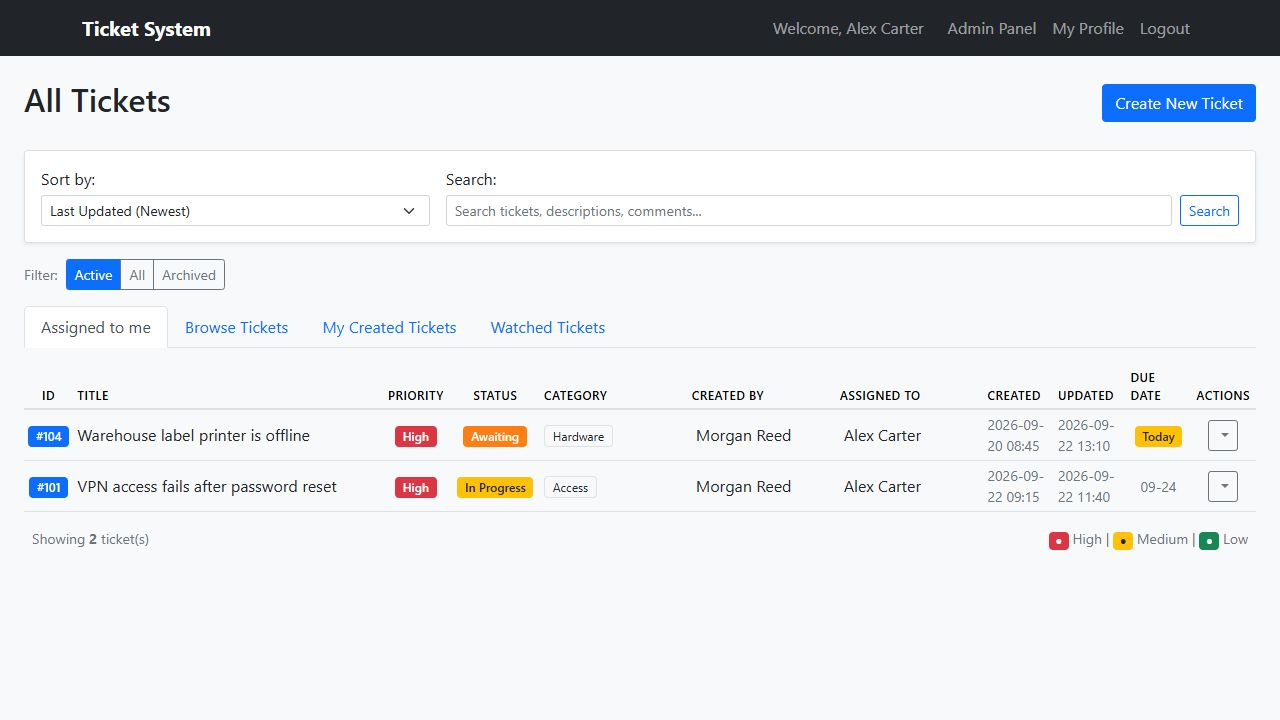
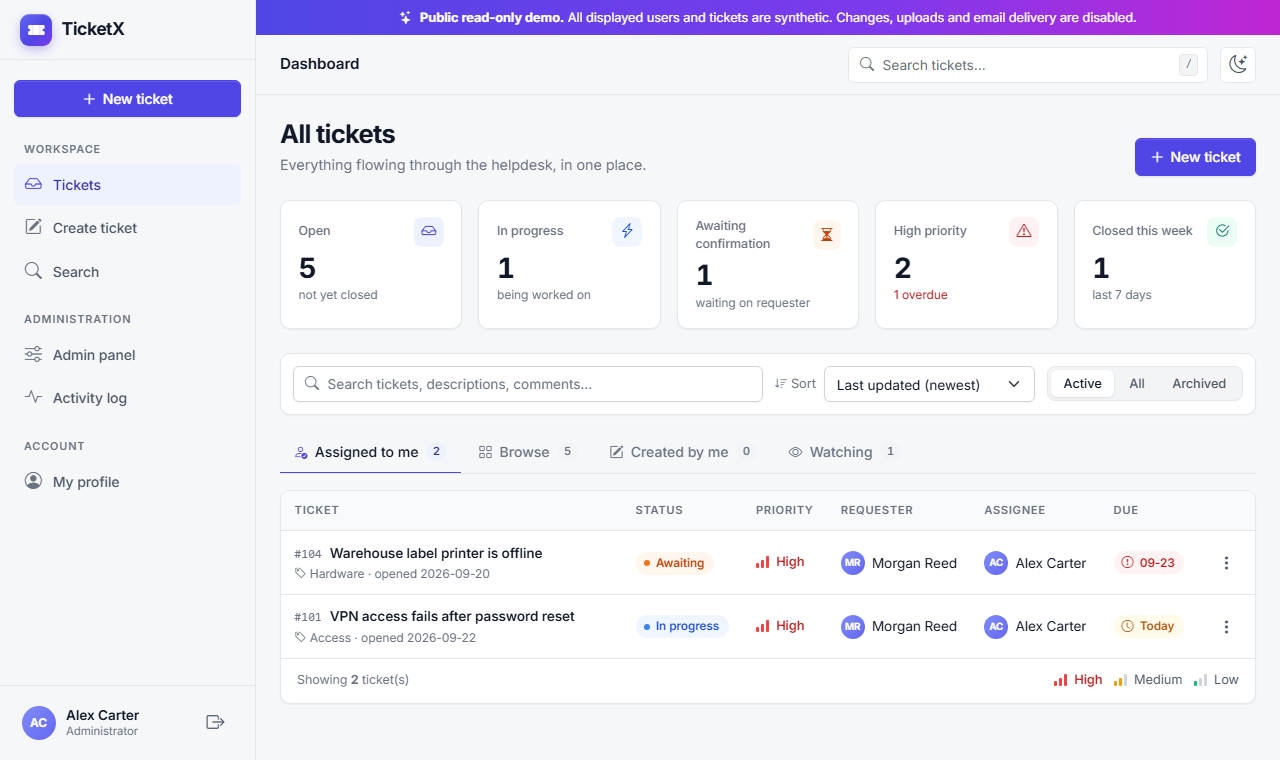
fix: keep ticket table inside its card; refresh README screenshots
- Ticket action menus use Popper's fixed strategy, so the table can
  scroll horizontally instead of overflowing the card
- Hide Requester below xl and Updated below xxl; titles truncate
- Anchor .visually-hidden table labels so they no longer widen the page
  on phones
- New light and dark screenshots of the redesigned UI

diff --git a/templates/partials/ticket_table.html b/templates/partials/ticket_table.html
@@ -1,15 +1,15 @@
 {% if tickets %}
 <div class="table-card">
 <div class="table-responsive">
-    <table class="table table-hover align-middle">
-        <thead class="sticky-top">
+    <table class="table table-hover align-middle ticket-table">
+        <thead>
             <tr>
-                <th style="width: 34%;">Ticket</th>
+                <th>Ticket</th>
                 <th style="width: 120px;">Status</th>
                 <th style="width: 100px;">Priority</th>
-                <th>Requester</th>
+                <th class="d-none d-xl-table-cell">Requester</th>
                 <th>Assignee</th>
-                <th style="width: 110px;">Updated</th>
+                <th class="d-none d-xxl-table-cell" style="width: 130px;">Updated</th>
                 <th style="width: 90px;">Due</th>
                 <th style="width: 56px;" class="text-end"><span class="visually-hidden">Actions</span></th>
             </tr>
@@ -26,11 +26,11 @@
             {% set st = status_map.get(ticket[3], ('pill-gray', (ticket[3] or '')|replace('_', ' ')|title)) %}
             <tr data-assigned-to="{{ ticket[7]|string if ticket[7] else 'IT' }}" class="ticket-row">
                 <!-- Ticket -->
-                <td>
+                <td class="ticket-cell">
                     {% set title = ticket[1]|string if ticket[1] else '' %}
-                    <div class="d-flex align-items-baseline gap-2">
+                    <div class="d-flex align-items-baseline gap-2 min-w-0">
                         <a href="{{ url_for('ticket_detail', ticket_id=ticket[0]) }}" class="ticket-id">#{{ ticket[0] }}</a>
-                        <a href="{{ url_for('ticket_detail', ticket_id=ticket[0]) }}" class="ticket-title text-truncate" style="max-width: 420px;" title="{{ title }}">
+                        <a href="{{ url_for('ticket_detail', ticket_id=ticket[0]) }}" class="ticket-title text-truncate" title="{{ title }}">
                             {% if title %}{{ title }}{% else %}<em class="text-muted">No title</em>{% endif %}
                         </a>
                     </div>
@@ -54,7 +54,7 @@
                 </td>
 
                 <!-- Requester -->
-                <td>
+                <td class="d-none d-xl-table-cell">
                     {% if ticket[10] %}
                     <span class="person" title="{{ ticket[10] }}">
                         <span class="avatar avatar-sm">{{ (ticket[10].split()|map('first')|join|upper)[:2] }}</span>
@@ -76,7 +76,7 @@
                 </td>
 
                 <!-- Updated -->
-                <td class="date-cell" title="Created {{ (ticket[4]|string)[:16] if ticket[4] else '—' }}">
+                <td class="date-cell d-none d-xxl-table-cell" title="Created {{ (ticket[4]|string)[:16] if ticket[4] else '—' }}">
                     {{ (ticket[5]|string)[:16] if ticket[5] else '—' }}
                 </td>
 
@@ -103,7 +103,8 @@
                         <button class="btn btn-icon btn-sm row-actions" 
                                 type="button" 
                                 id="actionsDropdown{{ ticket[0] }}" 
-                                data-bs-toggle="dropdown" 
+                                data-bs-toggle="dropdown"
+                                data-bs-popper-config='{"strategy":"fixed"}' 
                                 aria-expanded="false">
                             <i class="bi bi-three-dots-vertical"></i>
                         </button>
@@ -378,59 +379,12 @@ function showAssignITModal(element) {
 {% endif %}
 
 <style>
-.table-responsive { overflow: visible !important; }
-.app-main thead.sticky-top { top: var(--tx-topbar-height); z-index: 5; }
 .ticket-row:has(.dropdown.show) { background-color: var(--tx-surface-hover) !important; }
 .row-actions { width: 30px; height: 30px; font-size: 1rem; }
 .row-actions::after { display: none; }
 .dropdown-menu { z-index: 1050 !important; min-width: 250px; }
-.dropdown.dropup .dropdown-menu { top: auto !important; bottom: 100% !important; transform: translateY(-0.35rem) !important; }
 .dropdown-item { cursor: pointer; white-space: nowrap; }
 .dropdown-menu form { margin: 0; }
 .dropdown-menu form .dropdown-item { width: 100%; text-align: left; }
 </style>
 
-<script>
-document.addEventListener('DOMContentLoaded', function() {
-  // Dodaje .dropup ako dropdown ne stane ispod u viewportu
-  const dropdowns = document.querySelectorAll('.dropdown');
-
-  dropdowns.forEach(dd => {
-    dd.addEventListener('shown.bs.dropdown', function() {
-      const menu = dd.querySelector('.dropdown-menu');
-      if (!menu) return;
-
-      // getBoundingClientRect AFTER it's displayed (Bootstrap adds .show)
-      const rect = menu.getBoundingClientRect();
-      const viewportH = window.innerHeight || document.documentElement.clientHeight;
-
-      // margin sigurnosti (px)
-      const buffer = 8;
-
-      // Ako dno menija prelazi viewport -> otvori gore
-      if (rect.bottom > viewportH - buffer) {
-        dd.classList.add('dropup');
-      } else {
-        dd.classList.remove('dropup');
-      }
-    });
-
-    // obriši klasu kad se zatvori
-    dd.addEventListener('hidden.bs.dropdown', function() {
-      dd.classList.remove('dropup');
-    });
-
-    // Također re-proveravaj pri resize-u ako je meni otvoren
-    window.addEventListener('resize', function() {
-      if (dd.classList.contains('show') || dd.querySelector('.dropdown-menu').classList.contains('show')) {
-        const menu = dd.querySelector('.dropdown-menu');
-        const rect = menu.getBoundingClientRect();
-        const viewportH = window.innerHeight || document.documentElement.clientHeight;
-        const buffer = 8;
-        if (rect.bottom > viewportH - buffer) dd.classList.add('dropup');
-        else dd.classList.remove('dropup');
-      }
-    });
-  });
-});
-</script>

diff --git a/public/static/css/style.css b/public/static/css/style.css
@@ -1067,3 +1067,9 @@ a.stat-card:hover { border-color: var(--tx-border-strong); transform: translateY
 .card-body:has(> .table-responsive:only-child) .table > :not(caption) > * > *:first-child { padding-left: 1.15rem; }
 .card-body:has(> .table-responsive:only-child) .table > :not(caption) > * > *:last-child { padding-right: 1.15rem; }
 .table-striped > tbody > tr:nth-of-type(odd) > * { --bs-table-bg-type: transparent; }
+
+/* Ticket table: title column absorbs spare width and truncates instead of overflowing. */
+.ticket-cell { min-width: 240px; max-width: 1px; width: 100%; }
+.ticket-table .person { max-width: 150px; }
+/* Anchor absolutely positioned children (e.g. .visually-hidden labels) inside the scroll area. */
+.table-responsive { position: relative; }

diff --git a/static/css/style.css b/static/css/style.css
@@ -1067,3 +1067,9 @@ a.stat-card:hover { border-color: var(--tx-border-strong); transform: translateY
 .card-body:has(> .table-responsive:only-child) .table > :not(caption) > * > *:first-child { padding-left: 1.15rem; }
 .card-body:has(> .table-responsive:only-child) .table > :not(caption) > * > *:last-child { padding-right: 1.15rem; }
 .table-striped > tbody > tr:nth-of-type(odd) > * { --bs-table-bg-type: transparent; }
+
+/* Ticket table: title column absorbs spare width and truncates instead of overflowing. */
+.ticket-cell { min-width: 240px; max-width: 1px; width: 100%; }
+.ticket-table .person { max-width: 150px; }
+/* Anchor absolutely positioned children (e.g. .visually-hidden labels) inside the scroll area. */
+.table-responsive { position: relative; }

diff --git a/README.md b/README.md
@@ -19,7 +19,7 @@ Explore the read-only portfolio demo at **[ticketx-demo.vercel.app](https://tick
 
 ## Screenshots
 
-All screenshots below use synthetic demo users, tickets and `example.com` email addresses. No production or customer data is shown.
+All screenshots below use the synthetic demo data (users with `@milosradojkovic.dev` addresses). No production or customer data is shown.
 
 ### Ticket dashboard
 
@@ -33,6 +33,10 @@ All screenshots below use synthetic demo users, tickets and `example.com` email 
 
 ![TicketX administration panel with synthetic users](docs/screenshots/admin-panel.png)
 
+### Dark mode
+
+![TicketX dashboard in dark mode](docs/screenshots/dashboard-dark.png)
+
 ## Features
 
 - Ticket creation, assignment, priorities, due dates and status workflow
@@ -44,13 +48,14 @@ All screenshots below use synthetic demo users, tickets and `example.com` email 
 - Administrative user, department, category and activity-log views
 - Automatic migration of legacy SHA-256 password hashes after a valid login
 - CSRF protection, secure session cookies, security headers and login throttling
+- Modern responsive interface with light/dark theme, dashboard summary cards and keyboard search (`/`)
 
 ## Technology
 
 - Python 3.11+
 - Flask 3
 - SQLite in WAL mode
-- Jinja templates and Bootstrap 5
+- Jinja templates, Bootstrap 5.3 and Bootstrap Icons
 - OpenPyXL for `.xlsx` user imports
 
 ## Quick start
